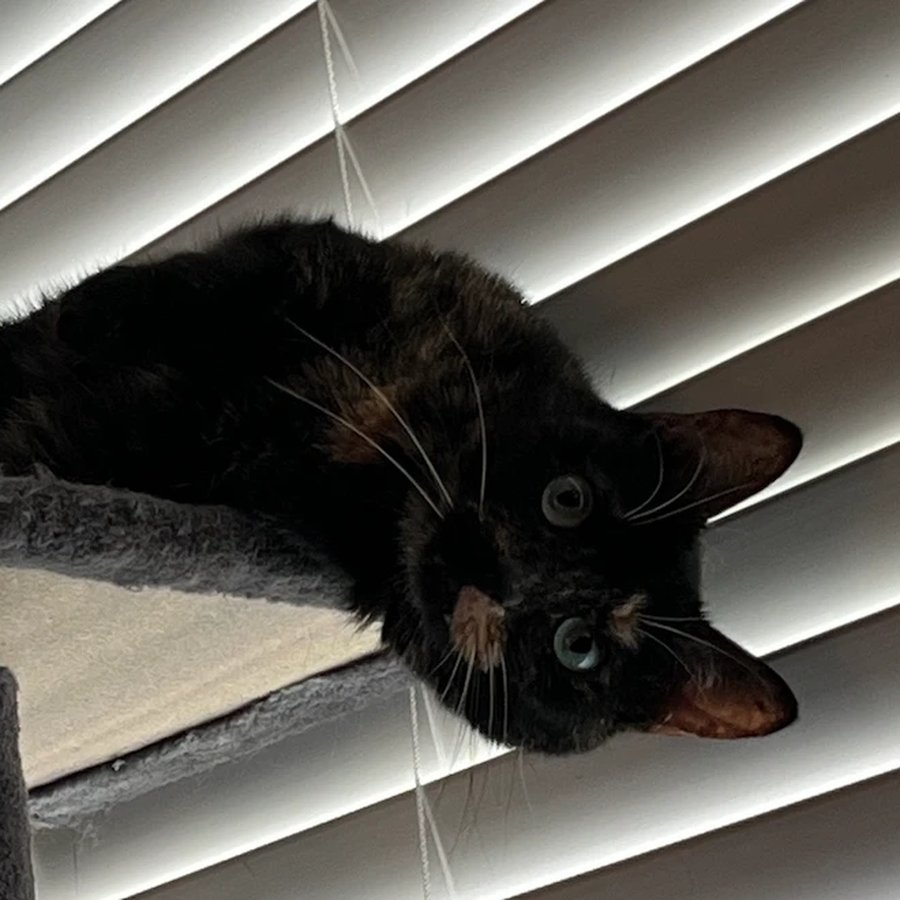
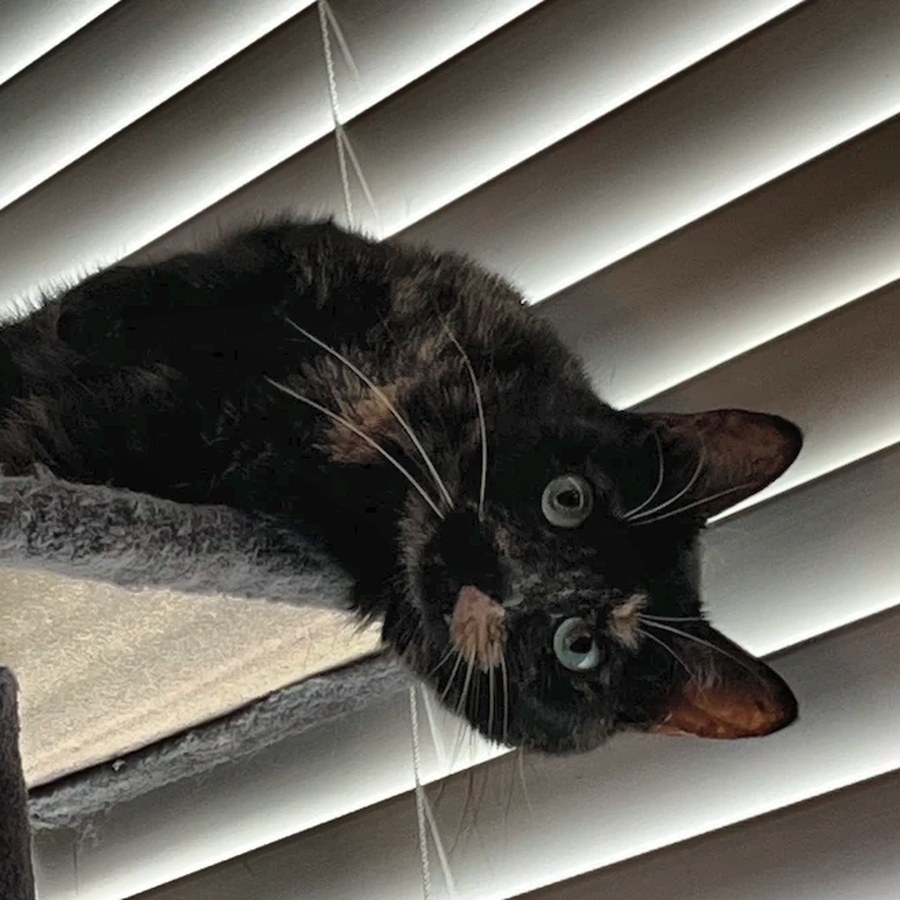
lift the shadows on Midna's photo

diff --git a/docs/decisions.md b/docs/decisions.md
@@ -214,6 +214,6 @@ The hero is "About" plus "me" inside the Home header's design-tool selection box
 
 (1) The "me" selection's pointer drags the top-right handle (`corner="top-right"` on `DesignSelection`; the box grows up and to the right), so it differs from Home's bottom-right. (2) Chips use the I-beam cursor, like the "build" chip on Home. (3) The chip caret takes the chip's text color (`--caret-color`, defaulting to primary). (4) New token `content.prose`: true black in light, the usual purple-50 in dark, for long-form reading text; used by the About body. (5) Heading steps on About: h2 are heading-lg (24 to 32px), and the "Label: sentence" groups are real h3s at heading-sm (16 to 20px), so the secondary headings clearly outrank the tertiary ones and the page has a proper h1, h2, h3 outline.
 
-About photo 1 is Midna on her cat tree in front of the blinds (900px JPG, square crop). The earlier lavender cutout and the portrait were tried and dropped. Photo 3 is a new Beau portrait (looking at the camera, black collar with a tree charm). Photo 4 is Zelda on the gray fleece blanket, looking at the camera. The dog photo (Kirby in a pink bandana, smiling up) replaced the couch-and-controller one and moved first, so the row reads Kirby, Midna, Beau, Zelda; the screen-reader intro lists them in that order.
+About photo 1 is Midna on her cat tree in front of the blinds, with the shadows lifted so her fur reads against the bright slats (900px JPG, square crop). The earlier lavender cutout and the portrait were tried and dropped. Photo 3 is a new Beau portrait (looking at the camera, black collar with a tree charm). Photo 4 is Zelda on the gray fleece blanket, looking at the camera. The dog photo (Kirby in a pink bandana, smiling up) replaced the couch-and-controller one and moved first, so the row reads Kirby, Midna, Beau, Zelda; the screen-reader intro lists them in that order.
 
 About shows four pets: Zelda (the black cat) is added as the fourth photo (cropped to a square on her face, original background), so the screen-reader note that she was "not pictured" is removed. The row is 2 x 2 on phones and 4 across from 641px, and sits outside the 40rem story column so it spans the full 960 grid. TODO(jax): a one-line personality note for Zelda like the other three have.
